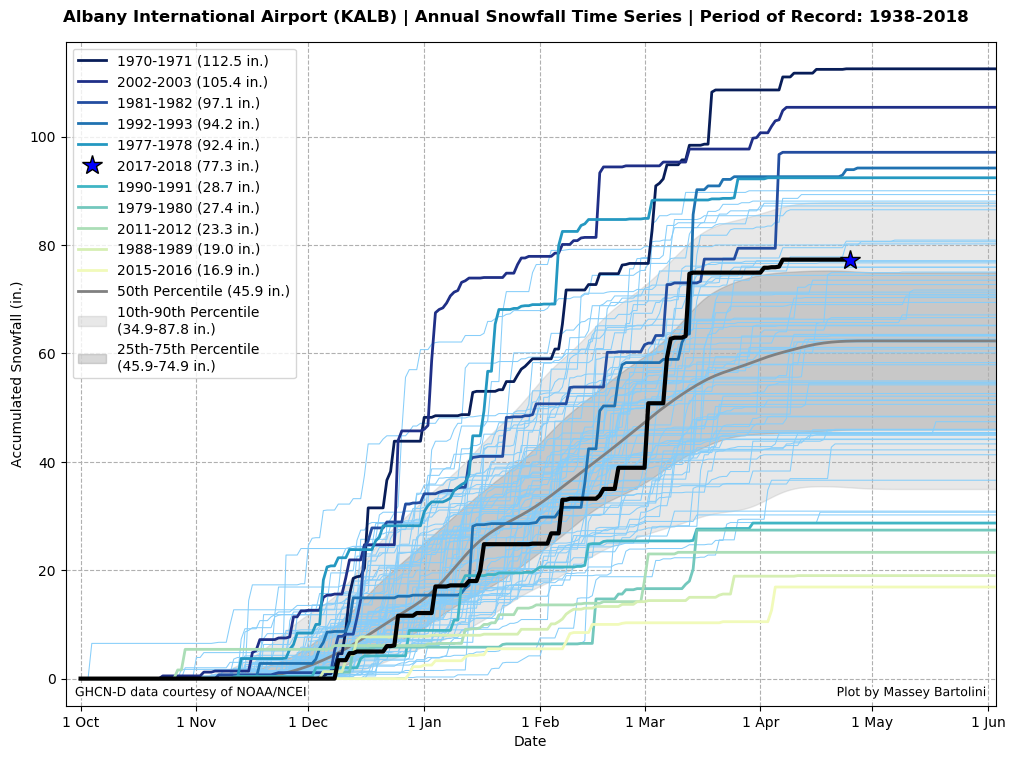
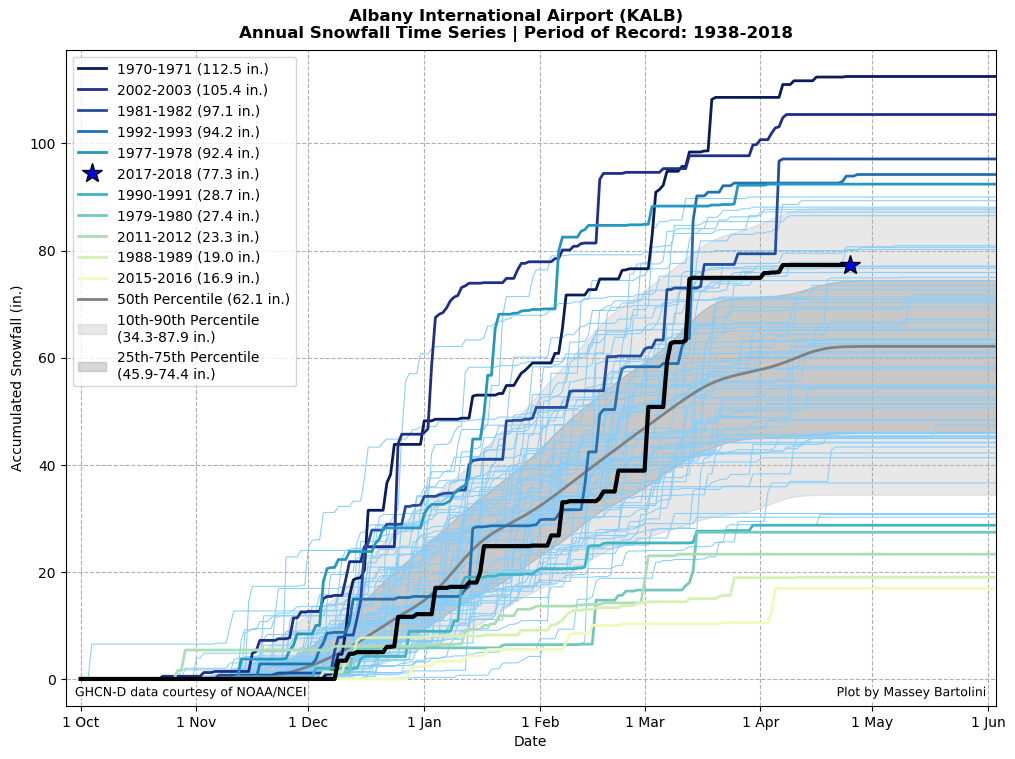
Fixed 50th percentile typo and added precip YTD script

Changed region(s): [[0.1527, 0.0606, 1.0, 0.9091], [0.0, 0.0, 0.9468, 0.6364], [0.0305, 0.7273, 0.0611, 0.7576]]

diff --git a/precip_acc_ytd.py b/precip_acc_ytd.py
@@ -22,7 +22,7 @@ df=df.set_index('YYYY_MM_DD') #Set datetime as index
 #Get starting and ending years in station record
 syr=str(pd.to_datetime(df.index).year.values[0])
 eyr=str(pd.to_datetime(df.index).year.values[-1])
-title=stname+'\nAnnual Snowfall Time Series | Period of Record: '+syr+'-'+eyr #Plot title
+title=stname+'\nAnnual Precipitation Time Series | Period of Record: '+syr+'-'+eyr #Plot title
 
 #Unit conversions: Temps from C to F and precip from mm to in 
 df['TMAX']=df['TMAX']*1.8+32.
@@ -56,61 +56,61 @@ water_yr_masks.append((df.index >= end_date)) #Oct 1 to present (could be partia
 #Create figure
 fig,ax=plt.subplots(figsize=(12,8))
 
-#Loop through and count annual snowfall amounts
-snow_acc_years=pd.DataFrame({}) #New dataframe for annual total snowfall
-snow_acc_timeseries=pd.DataFrame({}) #Each individual year's running summed snowfall, aligned to oct 1 (stripped of year info), used to compute mean/percentile stats
+#Loop through and count annual precip amounts
+precip_acc_years=pd.DataFrame({}) #New dataframe for annual total precip 
+precip_acc_timeseries=pd.DataFrame({}) #Each individual year's running summed precip, aligned to oct 1 (stripped of year info), used to compute mean/percentile stats
 dfwatyr_all=[]
 for i,mask in enumerate(water_yr_masks[1:]): #Skip first (partial) year
             dfwatyr=df.loc[mask] #Find water year
-            dfwatyr=dfwatyr.fillna(value=0.0) #Fill missing data as zeros (won't hurt acc snow except for long periods of missing data)
-            dfwatyr['SNOW_ACC']=dfwatyr.SNOW.cumsum() #Summation
+            dfwatyr=dfwatyr.fillna(value=0.0) #Fill missing data as zeros (won't hurt acc precip except for long periods of missing data)
+            dfwatyr['PRCP_ACC']=dfwatyr.PRCP.cumsum() #Summation
             dfwatyr_all.append(dfwatyr)
 
-            #Add cumulative snow total to summary dataframe
-            snow_acc_years=snow_acc_years.append({'END_YR':int(dfwatyr.index.year[-1]),'SNOW_ACC':dfwatyr.SNOW_ACC.values[-1]},ignore_index=True)
+            #Add cumulative precip total to summary dataframe
+            precip_acc_years=precip_acc_years.append({'END_YR':int(dfwatyr.index.year[-1]),'PRCP_ACC':dfwatyr.PRCP_ACC.values[-1]},ignore_index=True)
 
-            #Append cumulative snowfall series (full daily info) to dataframe if full year's worth of data exists
-            snow_acc_yr=pd.Series(dfwatyr.SNOW_ACC.values,name='SNOW_ACC_'+str(dfwatyr.index.year[0])+'_'+str(dfwatyr.index.year[-1]))
-            if (df.loc[mask].SNOW.count()>364) & (df.loc[mask].SNOW.count()<367):
-                snow_acc_timeseries=snow_acc_timeseries.append(snow_acc_yr)
+            #Append cumulative precip series (full daily info) to dataframe if full year's worth of data exists
+            precip_acc_yr=pd.Series(dfwatyr.PRCP_ACC.values,name='PRCP_ACC_'+str(dfwatyr.index.year[0])+'_'+str(dfwatyr.index.year[-1]))
+            if (df.loc[mask].PRCP.count()>364) & (df.loc[mask].PRCP.count()<367):
+                precip_acc_timeseries=precip_acc_timeseries.append(precip_acc_yr)
 		
-#Find top 5 snowiest and least snowy years to highlight these particular seasons in plot
-snow_acc_years_sorted=snow_acc_years.sort_values('SNOW_ACC',ascending=False) #Sort from most to least snowy
-print ('Snowiest years: ')
-print (snow_acc_years_sorted.head())
-if (df.index.month[-1] > 9) or (df.index.month[-1] < 5): #Don't include current year (incomplete) in top/bottom 5 stats
-    snow_acc_years_sorted_dropcurryr=snow_acc_years_sorted[snow_acc_years_sorted.END_YR != float(eyr)]
+#Find top 5 rainiest and least rainy years to highlight these particular seasons in plot
+precip_acc_years_sorted=precip_acc_years.sort_values('PRCP_ACC',ascending=False) #Sort from most to least rainy
+print ('Rainiest years: ')
+print (precip_acc_years_sorted.head())
+if (df.index.month[-1] > 9) or (df.index.month[-1] < 10): #Don't include current year (incomplete) in top/bottom 5 stats
+    precip_acc_years_sorted_dropcurryr=precip_acc_years_sorted[precip_acc_years_sorted.END_YR != float(eyr)]
 else:
-    snow_acc_years_sorted_dropcurryr=snow_acc_years_sorted
-top5=list(snow_acc_years_sorted_dropcurryr.index[:5])
-bot5=list(snow_acc_years_sorted_dropcurryr.index[-5:])
-sorted_idx=list(snow_acc_years_sorted.index)
-for i in sorted_idx: #Sorted, plotting sequentially from most to least snowy (nice order for legend)
+    precip_acc_years_sorted_dropcurryr=precip_acc_years_sorted
+top5=list(precip_acc_years_sorted_dropcurryr.index[:5])
+bot5=list(precip_acc_years_sorted_dropcurryr.index[-5:])
+sorted_idx=list(precip_acc_years_sorted.index)
+for i in sorted_idx: #Sorted, plotting sequentially from most to least rainy (nice order for legend)
 	dfwatyr=dfwatyr_all[i]
-	dates=[datetime(2017,10,1)+timedelta(days=i) for i in range(len(dfwatyr.SNOW_ACC.values))]
+	dates=[datetime(2017,10,1)+timedelta(days=i) for i in range(len(dfwatyr.PRCP_ACC.values))]
 	pathfx=[PathEffects.withStroke(linewidth=3,foreground='w')]	
-	top5colors=plt.cm.YlGnBu(np.linspace(0.6,1.0,5))[::-1]
-	bot5colors=plt.cm.YlGnBu(np.linspace(0.1,0.5,5))[::-1]
+	top5colors=plt.cm.Spectral(np.linspace(0.7,1.0,5))[::-1]
+	bot5colors=plt.cm.Spectral(np.linspace(0,0.3,5))[::-1]
 	if i in top5: #Plot top5 with a different color and linewidth to highlight
 		ix=top5.index(i)
 		ci=top5colors[ix] #Pick color
-		ax.plot(dates,dfwatyr.SNOW_ACC.values,color=ci,lw=2,zorder=3,label=str(dfwatyr.index.year[0])+'-'+str(dfwatyr.index.year[-1])+' ('+str(dfwatyr.SNOW_ACC.values[-1])+' in.)')
+		ax.plot(dates,dfwatyr.PRCP_ACC.values,color=ci,lw=2,zorder=3,label=str(dfwatyr.index.year[0])+'-'+str(dfwatyr.index.year[-1])+' ('+str(dfwatyr.PRCP_ACC.values[-1])+' in.)')
 	elif i in bot5:	#Similar to top5, plot with different color/linewidth
 		ix=bot5.index(i)
 		ci=bot5colors[ix] #Pick color
-		ax.plot(dates,dfwatyr.SNOW_ACC.values,color=ci,lw=2,zorder=3,label=str(dfwatyr.index.year[0])+'-'+str(dfwatyr.index.year[-1])+' ('+str(dfwatyr.SNOW_ACC.values[-1])+' in.)')
-	elif i==len(dfwatyr_all)-1: #Plot current ytd snowfall in black
-		ax.plot(dates,dfwatyr.SNOW_ACC.values,color='k',lw=3,zorder=4)
-		ax.plot(dates[len(dfwatyr.SNOW_ACC.values)-1],dfwatyr.SNOW_ACC.values[-1],'*',color='b',markersize=15,mec='k',mew=1,zorder=5,label=str(dfwatyr.index.year[0])+'-'+str(dfwatyr.index.year[-1])+' ('+str(dfwatyr.SNOW_ACC.values[-1])+' in.)')
+		ax.plot(dates,dfwatyr.PRCP_ACC.values,color=ci,lw=2,zorder=3,label=str(dfwatyr.index.year[0])+'-'+str(dfwatyr.index.year[-1])+' ('+str(dfwatyr.PRCP_ACC.values[-1])+' in.)')
+	elif i==len(dfwatyr_all)-1: #Plot current ytd rainfall in black
+		ax.plot(dates,dfwatyr.PRCP_ACC.values,color='k',lw=3,zorder=4)
+		ax.plot(dates[len(dfwatyr.PRCP_ACC.values)-1],dfwatyr.PRCP_ACC.values[-1],'*',color='g',markersize=15,mec='k',mew=1,zorder=5,label=str(dfwatyr.index.year[0])+'-'+str(dfwatyr.index.year[-1])+' ('+str(dfwatyr.PRCP_ACC.values[-1])+' in.)')
 	else: #Plot all other years in light blue with thin line
-		ax.plot(dates,dfwatyr.SNOW_ACC.values,color='lightskyblue',lw=0.75,zorder=2.5)
+		ax.plot(dates,dfwatyr.PRCP_ACC.values,color='yellowgreen',lw=0.75,zorder=2.5)
 
-#plot smoothed accumulated snow quantiles (10-90 light gray shading, 25-75 darker gray shading, and single line for 50)
-q90=snow_acc_timeseries.quantile(q=0.9).values[:-1]
-q75=snow_acc_timeseries.quantile(q=0.75).values[:-1]
-q50=snow_acc_timeseries.quantile(q=0.5).values[:-1]
-q25=snow_acc_timeseries.quantile(q=0.25).values[:-1]
-q10=snow_acc_timeseries.quantile(q=0.1).values[:-1]
+#plot smoothed accumulated rain quantiles (10-90 light gray shading, 25-75 darker gray shading, and single line for 50)
+q90=precip_acc_timeseries.quantile(q=0.9).values[:-1]
+q75=precip_acc_timeseries.quantile(q=0.75).values[:-1]
+q50=precip_acc_timeseries.quantile(q=0.5).values[:-1]
+q25=precip_acc_timeseries.quantile(q=0.25).values[:-1]
+q10=precip_acc_timeseries.quantile(q=0.1).values[:-1]
 dates=[datetime(2017,10,1)+timedelta(days=i) for i in range(len(q90))]
 ax.fill_between(dates,gaussian_filter(q90,sigma=5),gaussian_filter(q10,sigma=5),color='0.7',alpha=0.3,label='10th-90th Percentile\n('+str(np.around(q10[-1],decimals=1))+'-'+str(np.around(q90[-1],decimals=1))+' in.)')
 ax.fill_between(dates,gaussian_filter(q75,sigma=5),gaussian_filter(q25,sigma=5),color='0.5',alpha=0.3,label='25th-75th Percentile\n('+str(np.around(q25[-1],decimals=1))+'-'+str(np.around(q75[-1],decimals=1))+' in.)')
@@ -133,12 +133,12 @@ monsfmt=mpl.dates.DateFormatter('1 %b')
 ax.xaxis.set_major_locator(mons) #Label axis at every month
 ax.xaxis.set_major_formatter(monsfmt)
 plt.grid(linestyle='--')
-#Set plot x-limits to snow season (Oct - May)
-ax.set_xlim(datetime(2017,9,27),datetime(2018,6,3))
-plt.ylim([-5,snow_acc_years.SNOW_ACC.values.max()+5])
+#Set plot x-limits to water year (Oct - Sep)
+ax.set_xlim(datetime(2017,9,27),datetime(2018,10,3))
+plt.ylim([-3,precip_acc_years.PRCP_ACC.values.max()+3])
 plt.xlabel('Date')
-plt.ylabel('Accumulated Snowfall (in.)')
+plt.ylabel('Accumulated Precipitation (in.)')
 plt.suptitle(title,fontsize=12,fontweight='bold')
 plt.subplots_adjust(top=0.93)
-plt.savefig(stid.lower()+'_snow_acc_ytd.png',bbox_inches='tight')
+plt.savefig(stid.lower()+'_precip_acc_ytd.png',bbox_inches='tight')
 plt.close()

diff --git a/README.md b/README.md
@@ -4,6 +4,7 @@ A collection of plotting scripts I use to visualize how current observations com
 | Script Name | Description |
 |--------------|--------------|
 | snow_acc_ytd.py | Plots water year-to-date snowfall for a given station. |
+| precip_acc_ytd.py | Plots water year-to-date precipitation for a given station. |
 | max_min_temp_histo.py | Plots 2-D histogram of maximum and minimum daily temperatures for a given station. |
 
 **Credits:** Jared Rennie's [GHCNpy](https://github.com/jjrennie/GHCNpy) module for plotting inspiration and nicely-formatted .csv files, and Joe Zagrodnik for temperature histogram plotting idea.
